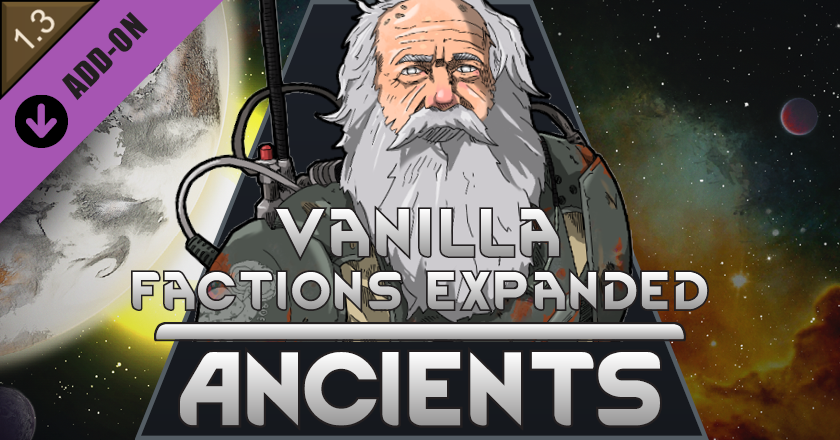
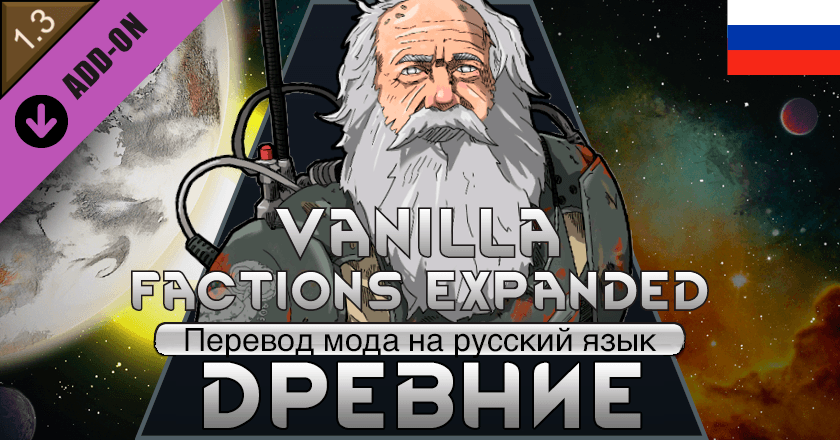
Починки и сюжеты

diff --git a/README.md b/README.md
@@ -1,11 +1,10 @@
 ##  Перевод серии модов [Vanilla Factions Expanded - Ancients](https://steamcommunity.com/sharedfiles/filedetails/?id=2654846754)
- 
- ### Прогресс 20 из 59 файлов
- 
-Подробности и координация на [дискорд сервере](https://discord.gg/Xmbwmgh)
 
-В качестве образца стоит использовать уже переведённые файлы и официальный перевод игры.
+### Прогресс
+* Перевод: 30 из 59 файлов
+* Проверка обновлений текста: ожидается
+* Проверка перевода в игре: ожидается
 
-Дополнительную информацию можно узнать на [wiki](https://github.com/Ludeon/RimWorld-ru/wiki) русской локализации
+Подробности и координация на [дискорд сервере](https://discord.gg/Xmbwmgh) в соответствующем канале
 
 <a rel="license" href="http://creativecommons.org/licenses/by-nc-sa/4.0/"><img alt="Лицензия Creative Commons" style="border-width:0" src="https://i.creativecommons.org/l/by-nc-sa/4.0/88x31.png" /></a><br />Это произведение доступно по <a rel="license" href="http://creativecommons.org/licenses/by-nc-sa/4.0/">лицензии Creative Commons «Attribution-NonCommercial-ShareAlike» («Атрибуция-Некоммерчески-СохранениеУсловий») 4.0 Всемирная</a>.
